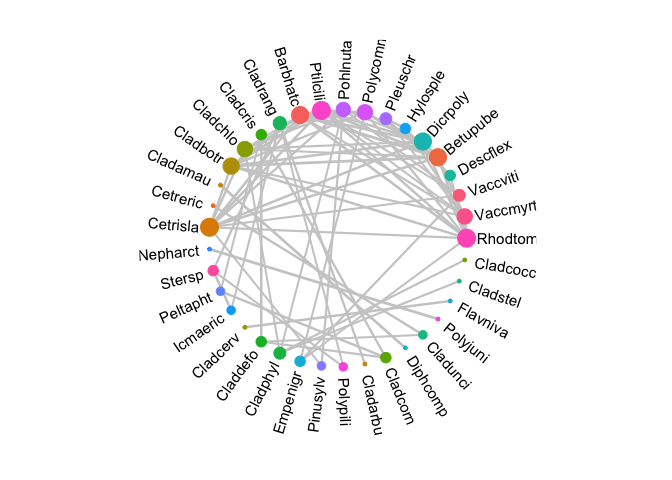
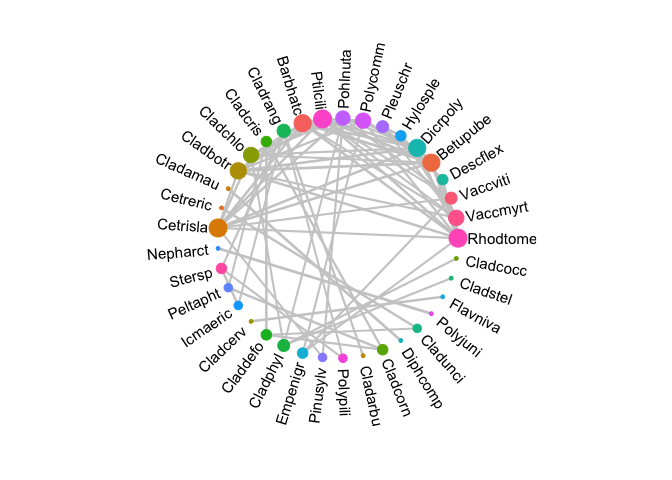
update readme

Changed region(s): [[0.2188, 0.0938, 0.8125, 0.9062], [0.2188, 0.6562, 0.25, 0.6875]]

diff --git a/readme.md b/readme.md
@@ -144,7 +144,7 @@ ggraph(net, "circle") +
                  show.legend = FALSE)  +
   scale_edge_color_gradientn(colours = c("blue", "red")) +
   scale_edge_width_continuous(range = c(0.1, 1)) +
-  coord_fixed(xlim = c(-1.4, 1.4), ylim = c(-1.4, 1.4)) +
+  coord_fixed(xlim = c(-1.5, 1.5), ylim = c(-1.5, 1.5)) +
   theme_graph()
 ```
 
